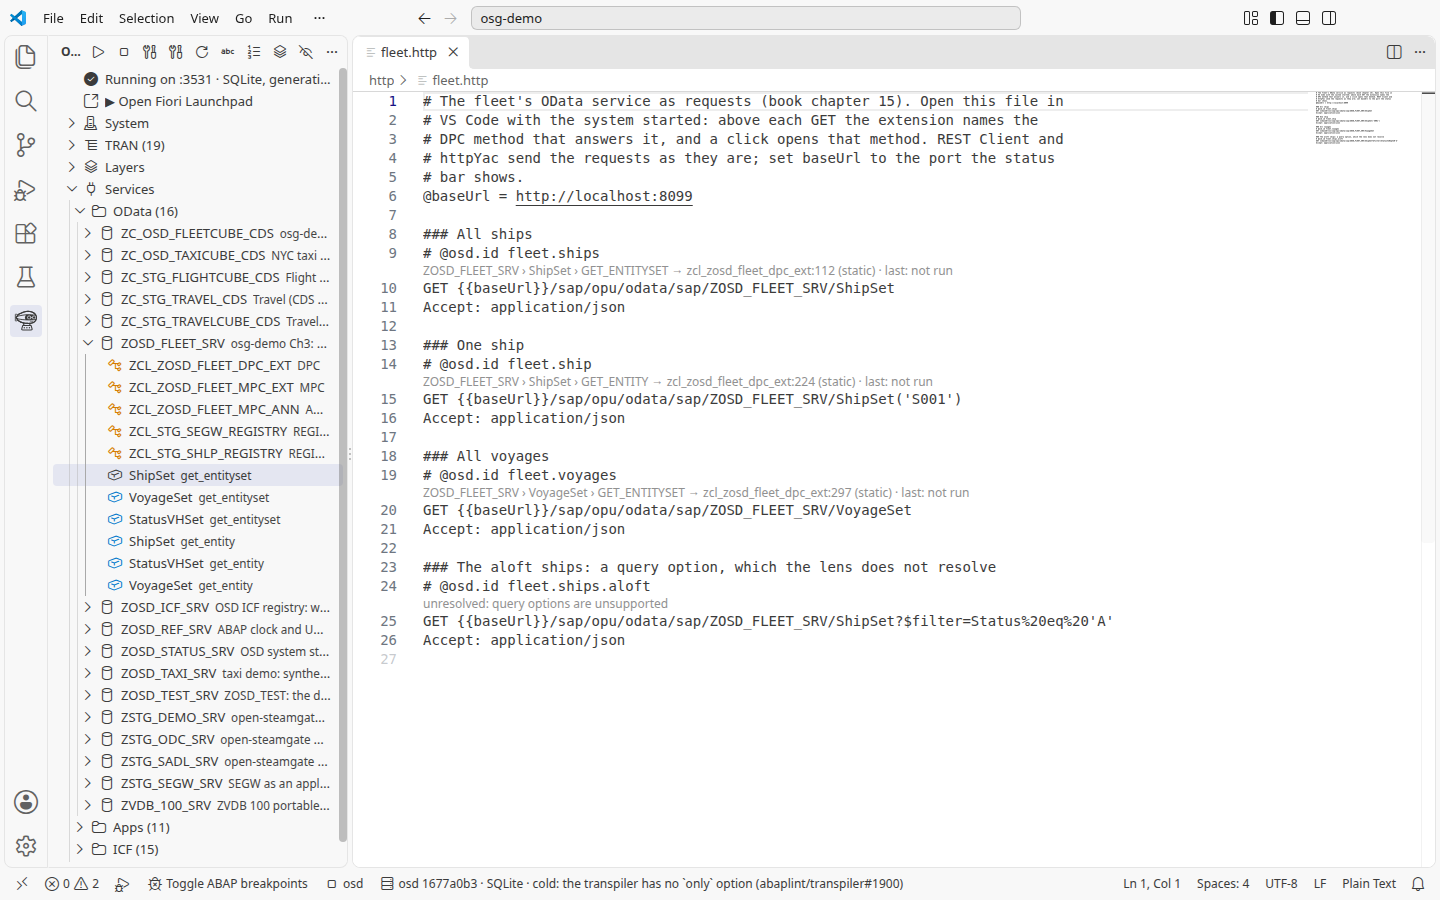
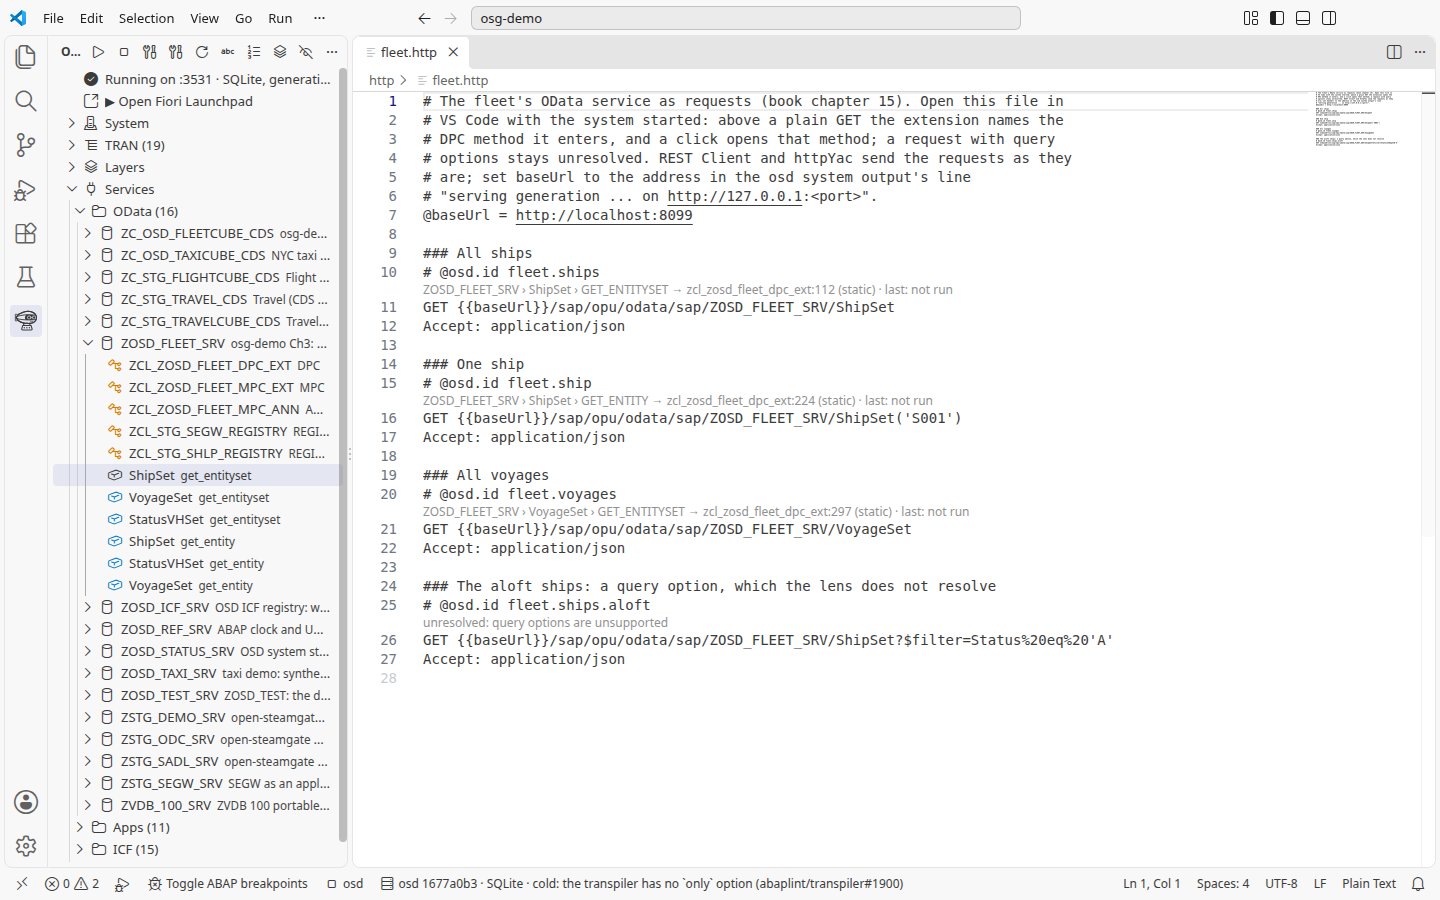
PR #47 review: what the lens resolves said exactly; every pictured state checked
- chapter 15 EN/RU: the lens names the method a request enters (a $filter
  request enters shipset_get_entityset too; the lens leaves it unresolved);
  line 297 passes a plain VoyageSet on to the generated class; no debugger
  workaround that would not reach the DPC; the details' "inherited
  (generic)" labels named as a reported 0.4.1414 defect; "the line above
  the GET"; RU caption wording
- http/fleet.http: its comment says where the port is, and that a request
  with query options stays unresolved
- test/vscode-shots.mjs: the three entity-set rows, the details tab, Ln 112
  after both jumps, the three lens lines with their DPC lines, the call's
  URL, status, row count and StatusText, readers "1 · 0 · 0" and
  ZCL_OSD_FLEET_TRAN
- pictures retaken

Claude-Session: https://claude.ai/code/session_018Djywwje7kdEq6CEr4LG73

Changed region(s): [[0.2812, 0.1244, 0.7812, 0.7467], [0.9062, 0.0933, 0.9688, 0.1867]]

diff --git a/book/ru/15-vscode.md b/book/ru/15-vscode.md
@@ -17,7 +17,11 @@
    и два реестра движка, и по строке на каждый метод набора сущностей:
    `ShipSet get_entityset`, `VoyageSet get_entityset`,
    `StatusVHSet get_entityset` и три `get_entity`. Щелчок по службе открывает
-   ее описание: классы DPC и MPC, ссылку на `$metadata` и наборы сущностей.
+   ее описание: классы DPC и MPC, ссылку на `$metadata` и наборы сущностей. В
+   0.4.1414 описание называет каждый метод «inherited (generic)», даже те,
+   которые переопределяет `ZCL_ZOSD_FLEET_DPC_EXT`, например `GET_ENTITYSET`
+   набора `ShipSet`; строки дерева и строки над запросами ниже показывают
+   верно (об этом сообщено).
 
    ![Представление System: ZOSD_FLEET_SRV с классами и методами наборов сущностей, и ее описание](../img/vscode-services.png)
 
@@ -35,19 +39,23 @@
 4. Откройте `http/fleet.http`. Ожидается: над каждым `GET` строка называет, что
    на него ответит, `ZOSD_FLEET_SRV › ShipSet › GET_ENTITYSET →
    zcl_zosd_fleet_dpc_ext:112 (static) · last: not run`; запрос по ключу идет к
-   `GET_ENTITY` в строке 224, рейсы - к строке 297. В последнем запросе есть
-   `$filter`, и над ним написано `unresolved: query options are unsupported`.
+   `GET_ENTITY` в строке 224, рейсы - к строке 297, где переопределение
+   отдает рейсы корабля, а простой `VoyageSet` передает сгенерированному
+   классу. В последнем запросе есть `$filter`, и над ним написано
+   `unresolved: query options are unsupported`.
 
-   ![http/fleet.http: над каждым GET метод DPC, который на него отвечает; запрос с $filter не разрешен](../img/vscode-http-lens.png)
+   ![http/fleet.http: над каждым GET метод DPC, который на него отвечает; запрос с $filter не сопоставлен с методом](../img/vscode-http-lens.png)
 
-5. Щелкните строку над **All ships**. Ожидается: класс DPC открывается на
+5. Щелкните строку над `GET` запроса **All ships**. Ожидается: класс DPC открывается на
    строке 112, `shipset_get_entityset`.
 
 «Static» значит, что расширение вывело метод из модели службы и кода класса, а
-не увидело, как запрос до него дошел. Для простого `GET` набора или одной
-сущности этого достаточно. Параметры запроса, `$expand`, запись и `$batch`
-доходят до других методов или до нескольких, поэтому расширение пишет
-«unresolved», а не угадывает.
+не увидело, как запрос до него дошел, и называет метод, в который запрос
+входит, а не все методы, которые потом работают. Строка разрешает простой
+`GET` набора или одной сущности. Все остальное она оставляет «unresolved», а
+не угадывает, даже когда ответ прост: запрос с `$filter` тоже входит в
+`shipset_get_entityset`, который читает фильтр в диапазоны. С `$expand`,
+записью и `$batch` работают другие методы или несколько.
 
 ## От кода к HTTP-ответу
 
@@ -65,8 +73,7 @@
    операторе вроде `lt_ship_id = ranges_for(`; на строке `DATA` остановки не
    бывает). С расширением 0.4.1414 в нашем прогоне остановки не было: точка
    останова осталась непривязанной, и вызов ответил, как в шаге 6. Об этом
-   сообщено; пока не исправят, отлаживайте метод через отчет главы 2 или
-   модульный тест.
+   сообщено автору расширения.
 
 ## Кто использует этот класс
 
@@ -93,7 +100,7 @@
 
 Один запрос из файла, с именем кейса для регрессионных инструментов:
 
-<!-- code: http/fleet.http lines 8-11 -->
+<!-- code: http/fleet.http lines 9-12 -->
 ```http
 ### All ships
 # @osd.id fleet.ships

diff --git a/book/15-vscode.md b/book/15-vscode.md
@@ -17,8 +17,12 @@ uses it. The pictures are of the extension 0.4.1414 with the system started
    service's classes, `ZCL_ZOSD_FLEET_DPC_EXT` (the data provider, chapter 3),
    the model classes and two registries of the engine, and one row per
    entity-set method: `ShipSet get_entityset`, `VoyageSet get_entityset`,
-   `StatusVHSet get_entityset` and the three `get_entity`. A click on the service opens its details: the
-   DPC and MPC classes, a `$metadata` link and the entity sets.
+   `StatusVHSet get_entityset` and the three `get_entity`. A click on the
+   service opens its details: the DPC and MPC classes, a `$metadata` link and
+   the entity sets. With 0.4.1414 the details call every method "inherited
+   (generic)", even those `ZCL_ZOSD_FLEET_DPC_EXT` redefines, such as
+   `GET_ENTITYSET` of `ShipSet`; the rows of the tree and the lenses below get
+   it right (reported).
 
    ![The System view: ZOSD_FLEET_SRV with its classes and entity-set methods, and its details](img/vscode-services.png)
 
@@ -36,19 +40,23 @@ Client, httpYac and JetBrains also read.
 4. Open `http/fleet.http`. Expected: above each `GET` a line names what will
    answer it, `ZOSD_FLEET_SRV › ShipSet › GET_ENTITYSET →
    zcl_zosd_fleet_dpc_ext:112 (static) · last: not run`; the keyed request goes
-   to `GET_ENTITY` at line 224, the voyages to line 297. The last request has
-   a `$filter` and says `unresolved: query options are unsupported`.
+   to `GET_ENTITY` at line 224, the voyages to line 297, where the
+   redefinition serves a ship's voyages and passes a plain `VoyageSet` on to
+   the generated class. The last request has a `$filter` and says
+   `unresolved: query options are unsupported`.
 
    ![http/fleet.http: above each GET the DPC method that answers it; the $filter request unresolved](img/vscode-http-lens.png)
 
-5. Click the line above **All ships**. Expected: the DPC class opens at line
+5. Click the line above the `GET` of **All ships**. Expected: the DPC class opens at line
    112, `shipset_get_entityset`.
 
 "Static" means the extension worked the method out from the service's model
-and the class's code; it did not watch a request reach it. That is enough for
-a plain `GET` of a set or of one entity. Query options, `$expand`, writes and
-`$batch` reach other or more methods, so the extension says "unresolved"
-rather than guess.
+and the class's code; it did not watch a request reach it, and it names the
+method a request enters, not every method that then runs. The lens resolves a
+plain `GET` of a set or of one entity. Anything else it leaves "unresolved"
+rather than guess, even where the answer is simple: the `$filter` request
+enters `shipset_get_entityset` too, which reads the filter into ranges. With
+`$expand`, writes and `$batch`, other or more methods run.
 
 ## From the code to the HTTP answer
 
@@ -64,9 +72,8 @@ rather than guess.
    with the debugger attached, to stop on a breakpoint in the method (on a
    statement such as `lt_ship_id = ranges_for(`; a `DATA` line never stops).
    With the extension 0.4.1414 it did not stop in our run: the breakpoint
-   stayed unbound and the call answered as in step 6. This is reported; until
-   it is fixed, debug the method through the report of chapter 2 or a unit
-   test.
+   stayed unbound and the call answered as in step 6. This is reported to the
+   extension's owner.
 
 ## Who uses this class
 
@@ -93,7 +100,7 @@ open-steamgate's roadmap.
 
 One request of the file, with the case name the regression tools read:
 
-<!-- code: http/fleet.http lines 8-11 -->
+<!-- code: http/fleet.http lines 9-12 -->
 ```http
 ### All ships
 # @osd.id fleet.ships

diff --git a/docs/spike-vscode-shots.md b/docs/spike-vscode-shots.md
@@ -5,7 +5,7 @@ person at a screen? Answer: yes. `test/vscode-shots.mjs` drives the desktop
 VS Code with Playwright's `_electron` under Xvfb. It first ran in GitHub
 Actions; it now runs on a workstation, and its pictures are committed to
 `book/img/` like those of `test/book-shots.mjs` and `test/cli-shots.mjs`.
-A run takes about three minutes, against about nine for a CI round trip.
+A run takes a few minutes, against about nine for a CI round trip.
 
 The script's header says how to run it. It takes eight pictures:
 
